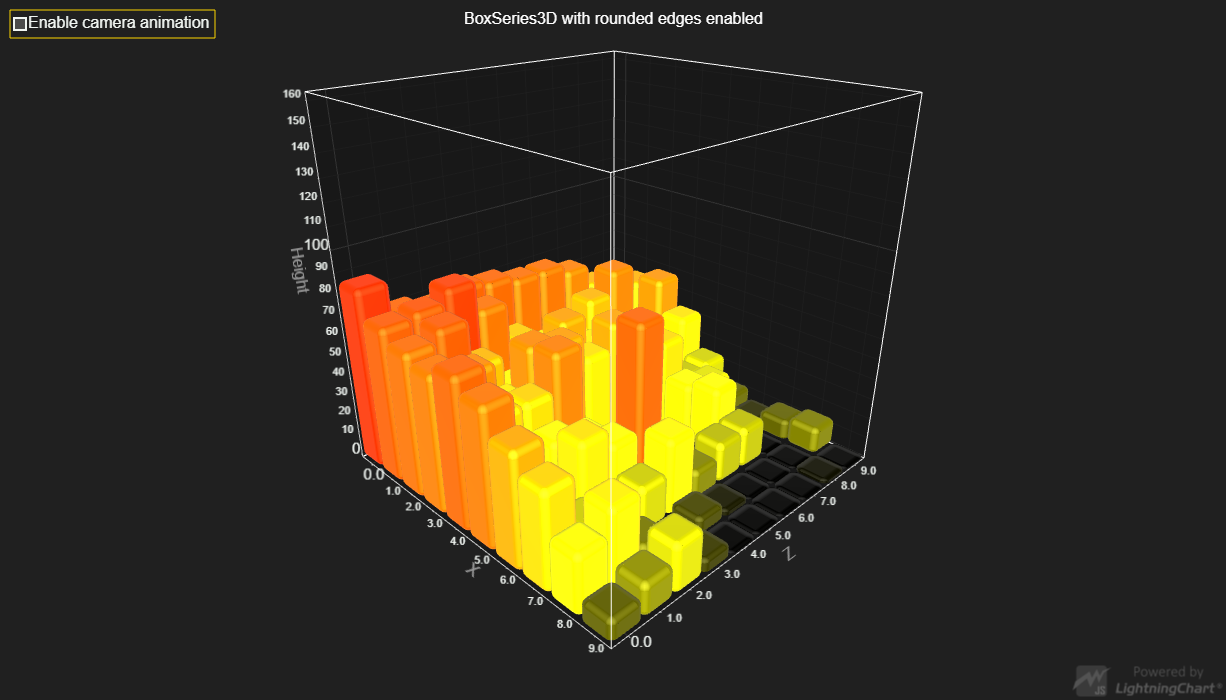
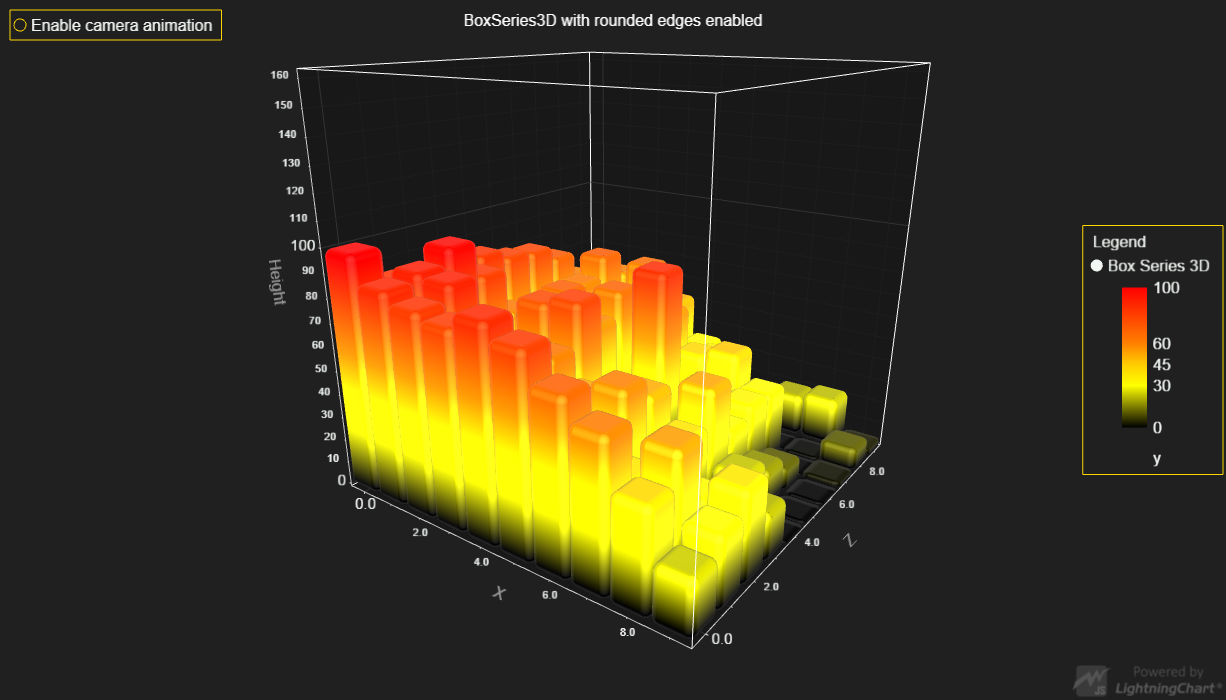
LCJS 3.0.0

diff --git a/src/index.js b/src/index.js
@@ -55,11 +55,13 @@ const lut = new LUT( {
 } )
 
 boxSeries
-    .setFillStyle( new PalettedFill( { lut } ) )
-    // Specify edge roundness. Note, that edge rounding is enabled by default.
+    .setFillStyle( new PalettedFill( { lut, lookUpProperty: 'y' } ) )
+    // Specify edge roundness.
     // For applications with massive amounts of small Boxes, it is wise to disable for performance benefits.
     .setRoundedEdges( 0.4 )
-    // .setRoundedEdges( undefined )
+
+// Add LegendBox to chart.
+const legend = chart3D.addLegendBox().add(chart3D)
 
 // Generate height map data.
 createWaterDropDataGenerator()
@@ -86,8 +88,6 @@ createWaterDropDataGenerator()
                         zSize: s,
                         // Specify an ID for each Box in order to modify it during later frames, instead of making new Boxes.
                         id: String( result.length ),
-                        // Specify color Look-Up-Value for each Box.
-                        value: height
                     }
                     result.push( box )
                 }
@@ -150,3 +150,6 @@ const handleCameraAnimationToggled = ( state ) => {
 const cameraAnimationEnabledCheckbox = group.addElement( UIElementBuilders.CheckBox )
 cameraAnimationEnabledCheckbox.onSwitch((_, state) => handleCameraAnimationToggled( state ))
 handleCameraAnimationToggled( true )
+chart3D.onBackgroundMouseDrag(() => {
+    handleCameraAnimationToggled( false )
+})

diff --git a/README.md b/README.md
@@ -116,8 +116,8 @@ Direct developer email support can be purchased through a [Support Plan][4] or b
 © Arction Ltd 2009-2020. All rights reserved.
 
 
-[3D chart]: https://www.arction.com/lightningchart-js-api-documentation/v2.2.0/classes/chart3d.html
-[3D box series]: https://www.arction.com/lightningchart-js-api-documentation/v2.2.0/classes/boxseries3d.html
-[Box data centered]: https://www.arction.com/lightningchart-js-api-documentation/v2.2.0/interfaces/boxdatacentered.html
-[Box data bounds]: https://www.arction.com/lightningchart-js-api-documentation/v2.2.0/interfaces/boxdatabounds.html
+[3D chart]: https://www.arction.com/lightningchart-js-api-documentation/v3.0.0/classes/chart3d.html
+[3D box series]: https://www.arction.com/lightningchart-js-api-documentation/v3.0.0/classes/boxseries3d.html
+[Box data centered]: https://www.arction.com/lightningchart-js-api-documentation/v3.0.0/interfaces/boxdatacentered.html
+[Box data bounds]: https://www.arction.com/lightningchart-js-api-documentation/v3.0.0/interfaces/boxdatabounds.html
 
